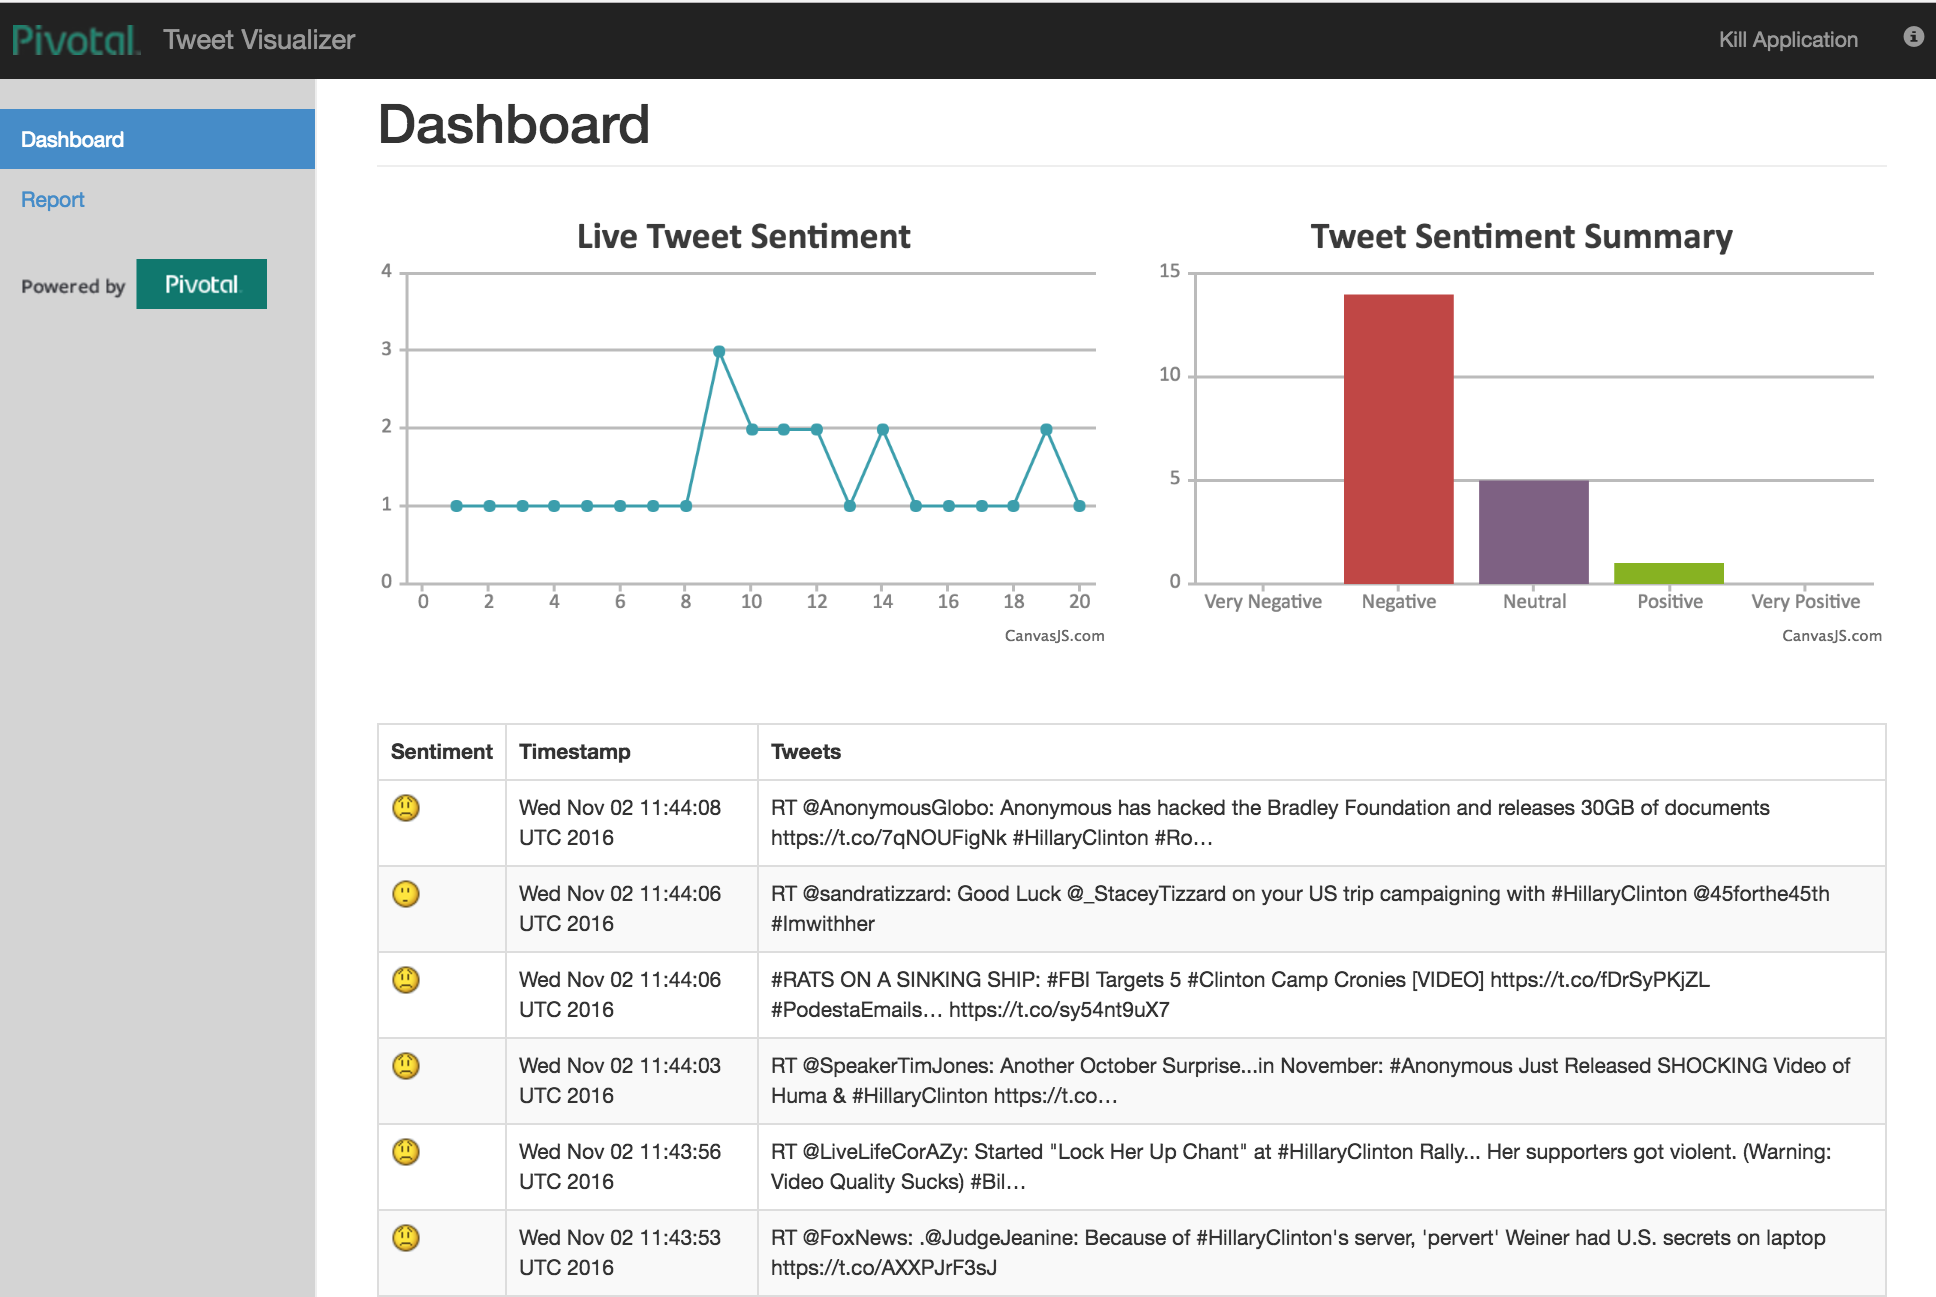
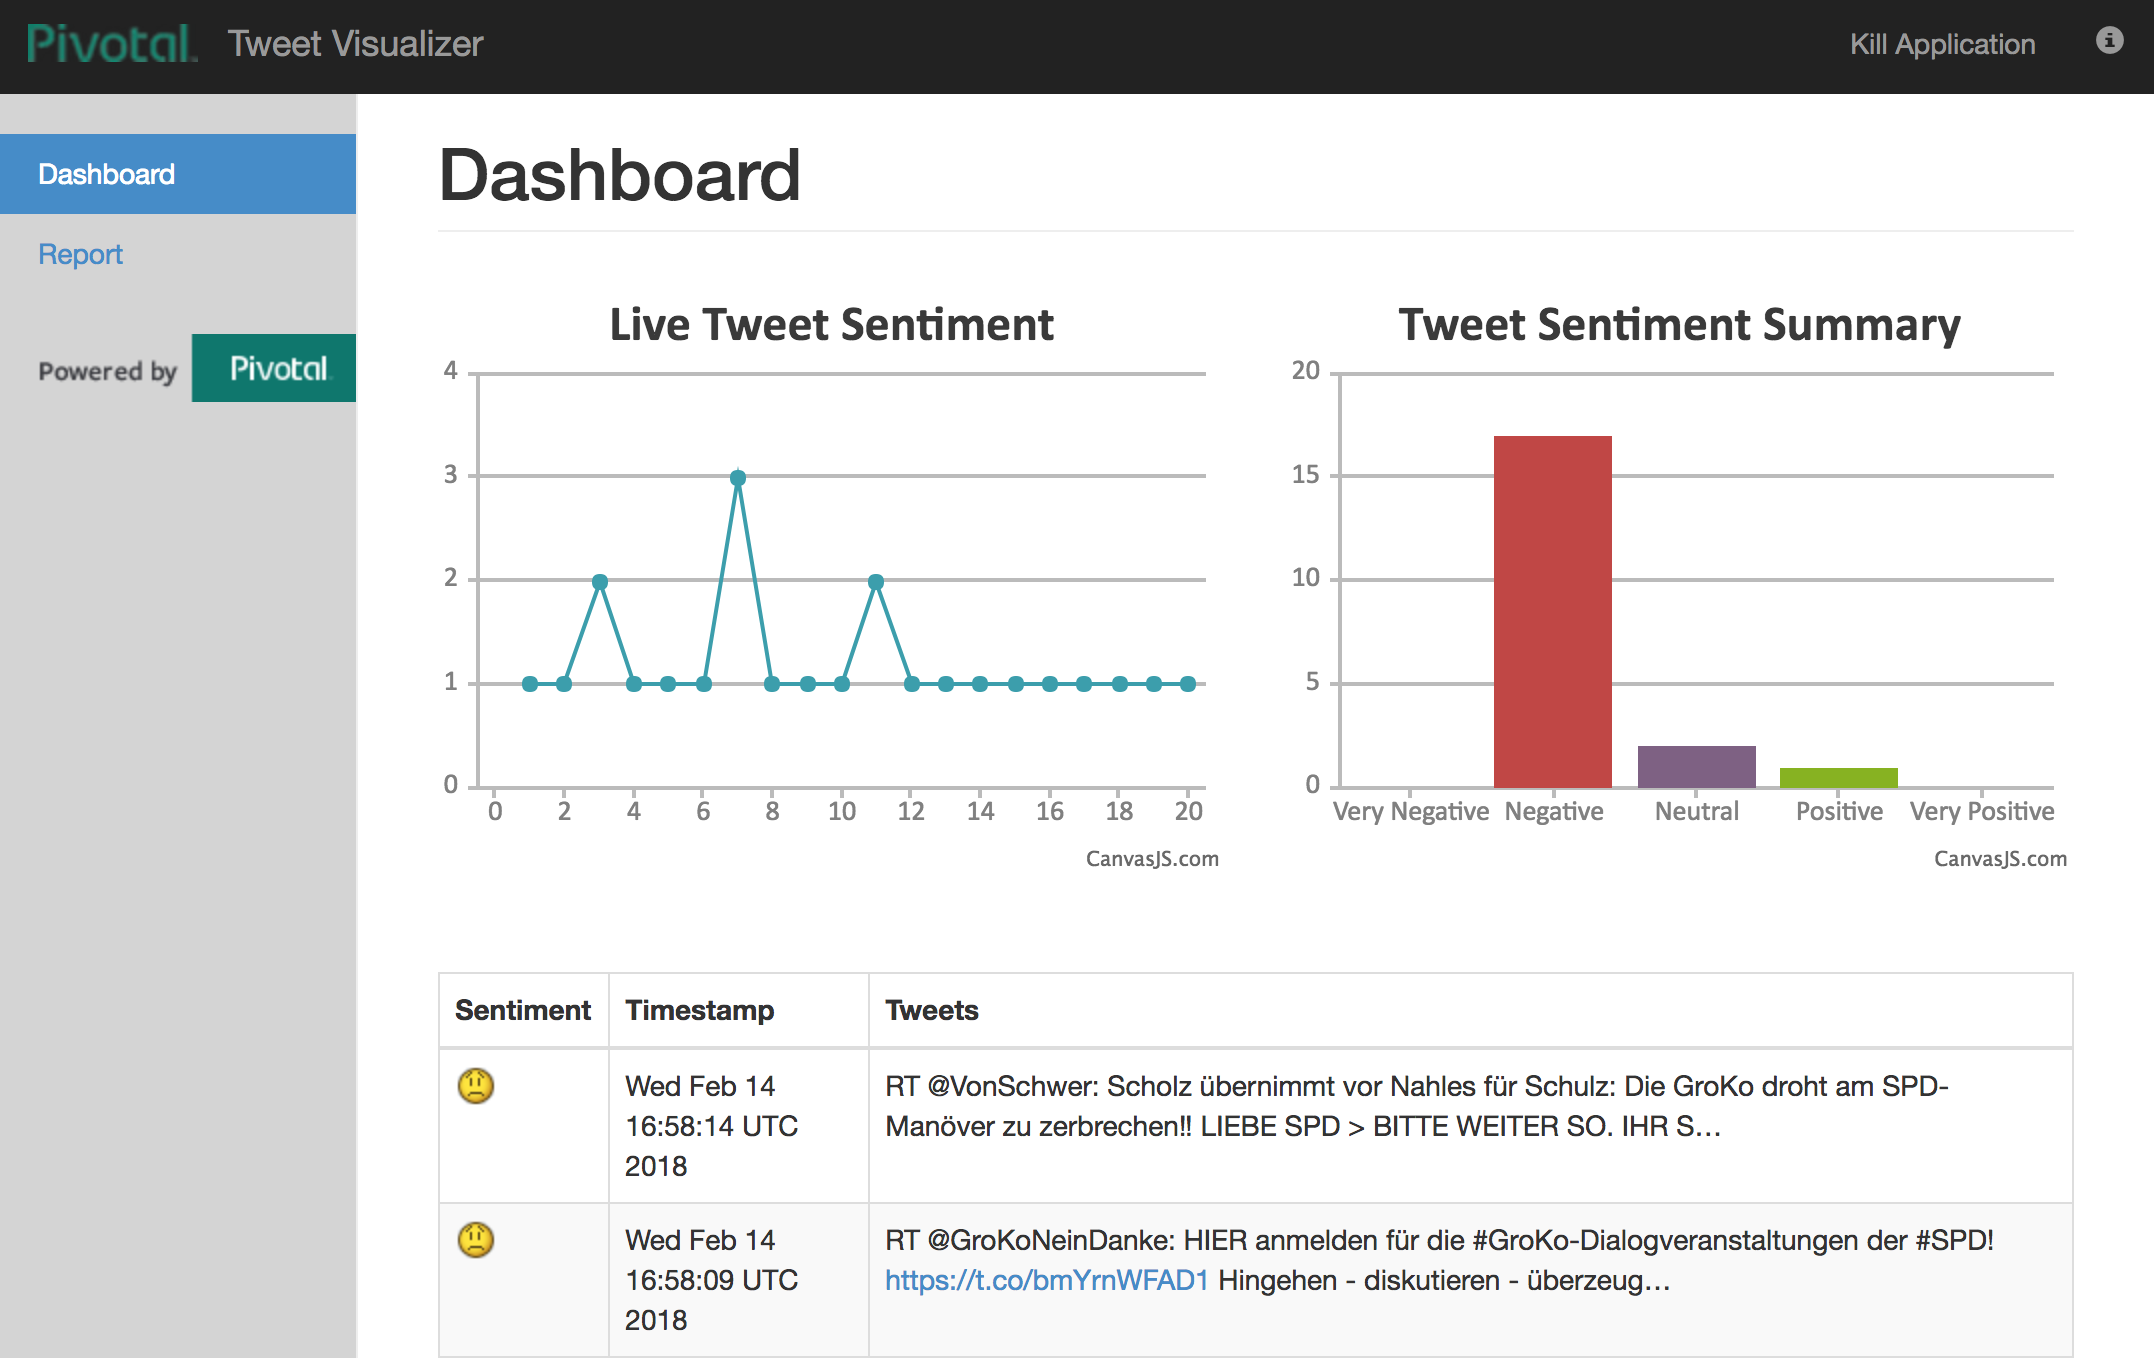
Added support for German Tweets

diff --git a/README.md b/README.md
@@ -37,7 +37,9 @@ Please, use your own twitter credentials. You get them here: https://apps.twitte
 
 ```
 env:
-  twitter_query: '#HillaryClinton'
+  twitter_query: '#Groko'
+  # twitter_language de or en
+  twitter_language: de
   twitter_oauth_consumerKey: **ENTER YOUR** Consumer Key
   twitter_oauth_consumerSecret: **ENTER YOUR** Consumer Secret
   twitter_oauth_accessToken: ENTER **YOUR Access** Token
@@ -55,7 +57,8 @@ env:
 - mvn spring-boot:run
 - cd spring-boot-feeder
 ```
-export twitter_query='#greenday'
+export twitter_query='#Groko'
+export twitter_language=de
 export twitter_oauth_consumerKey=**ENTER YOUR** Consumer Key
 export twitter_oauth_consumerSecret=**ENTER YOUR** Consumer Secret
 export twitter_oauth_accessToken=**ENTER YOUR** Access Token
